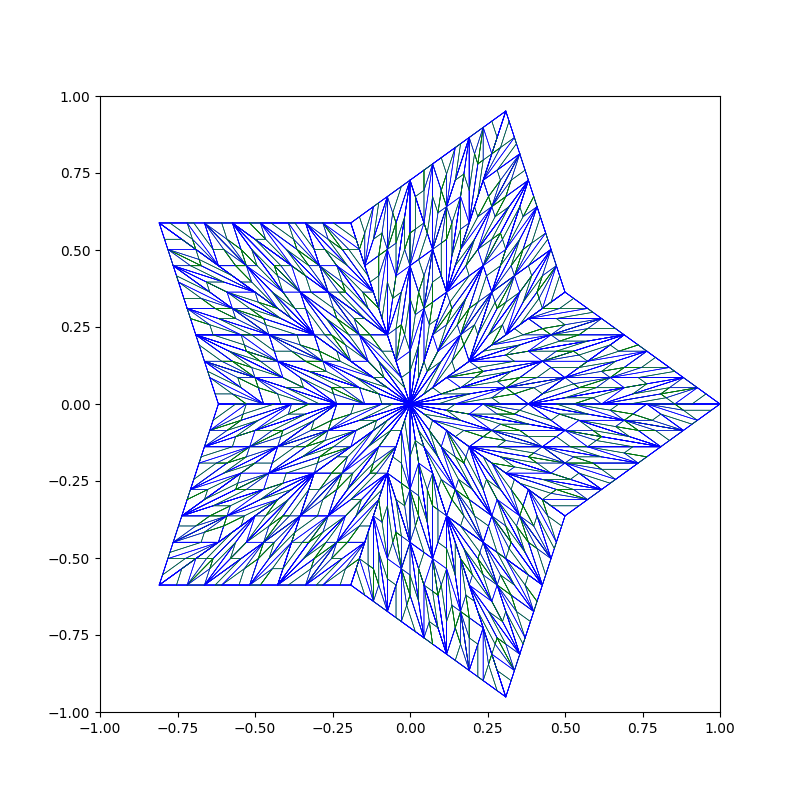
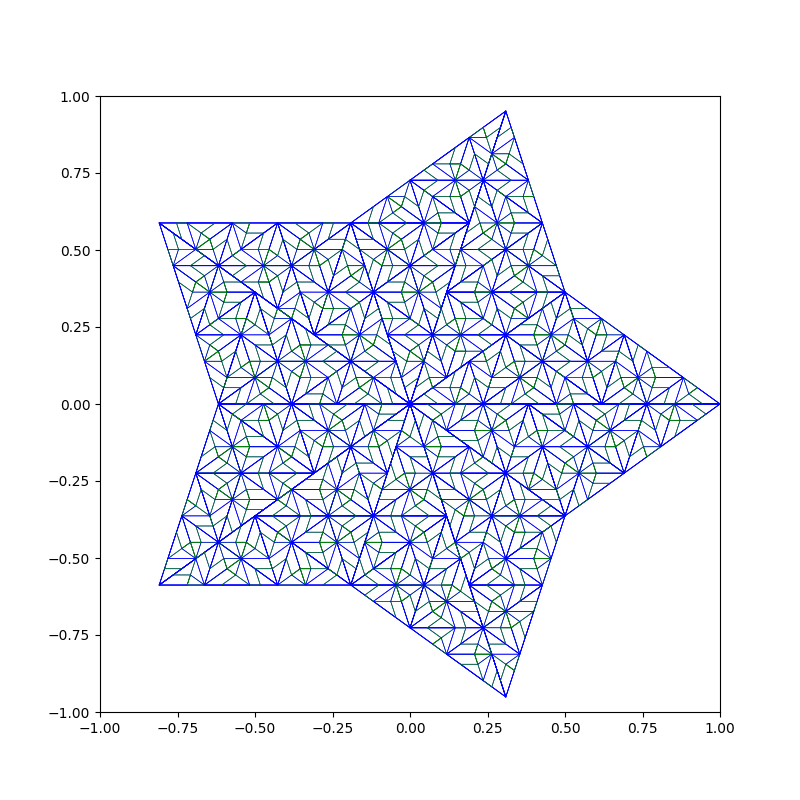
fixed star

Changed region(s): [[0.1875, 0.1562, 0.875, 0.875]]

diff --git a/PyPacking.py b/PyPacking.py
@@ -193,11 +193,11 @@ def Penrose_Tiling(n,pattern_name):
        for i in range(0,10):
             if i % 2 == 0:
                 r = 0.5/np.cos(np.pi/5)
-                start_triangles.append(['blue',[0,np.cos(i*np.pi/5),r*np.cos((i+1)*np.pi/5)],[0,np.sin(i*np.pi/5),r*np.sin((i+1)*np.pi/5)]])
+                start_triangles.append(['blue',[r*np.cos((i+1)*np.pi/5),0,np.cos(i*np.pi/5),],[r*np.sin((i+1)*np.pi/5),0,np.sin(i*np.pi/5),]])
 
             if i % 2 != 0:
                 r = 0.5/np.cos(np.pi/5)
-                start_triangles.append(['blue',[0,r*np.cos(i*np.pi/5),np.cos((i+1)*np.pi/5)],[0,r*np.sin(i*np.pi/5),np.sin((i+1)*np.pi/5)]])
+                start_triangles.append(['blue',[r*np.cos(i*np.pi/5),np.cos((i+1)*np.pi/5),0],[r*np.sin(i*np.pi/5),np.sin((i+1)*np.pi/5),0]])
 
 
             plt.plot(start_triangles[i][1],start_triangles[i][2],linewidth=0.5,c=start_triangles[i][0])
